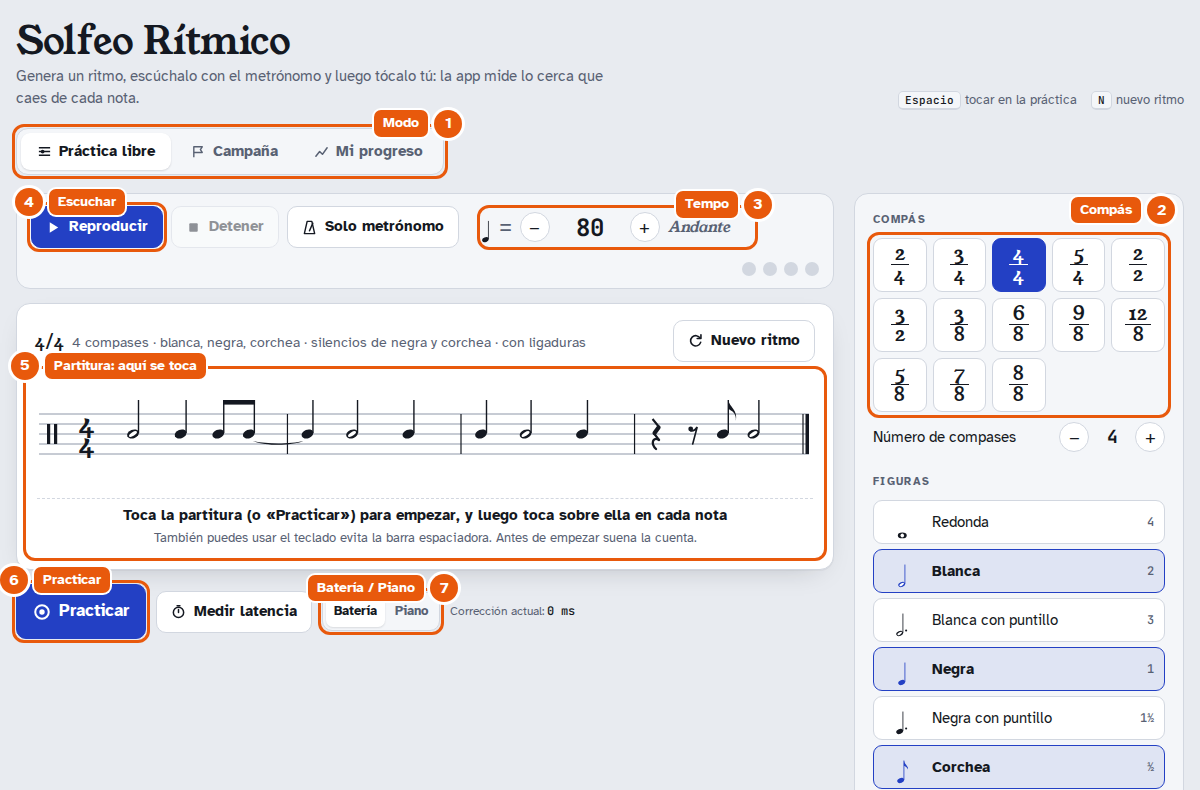
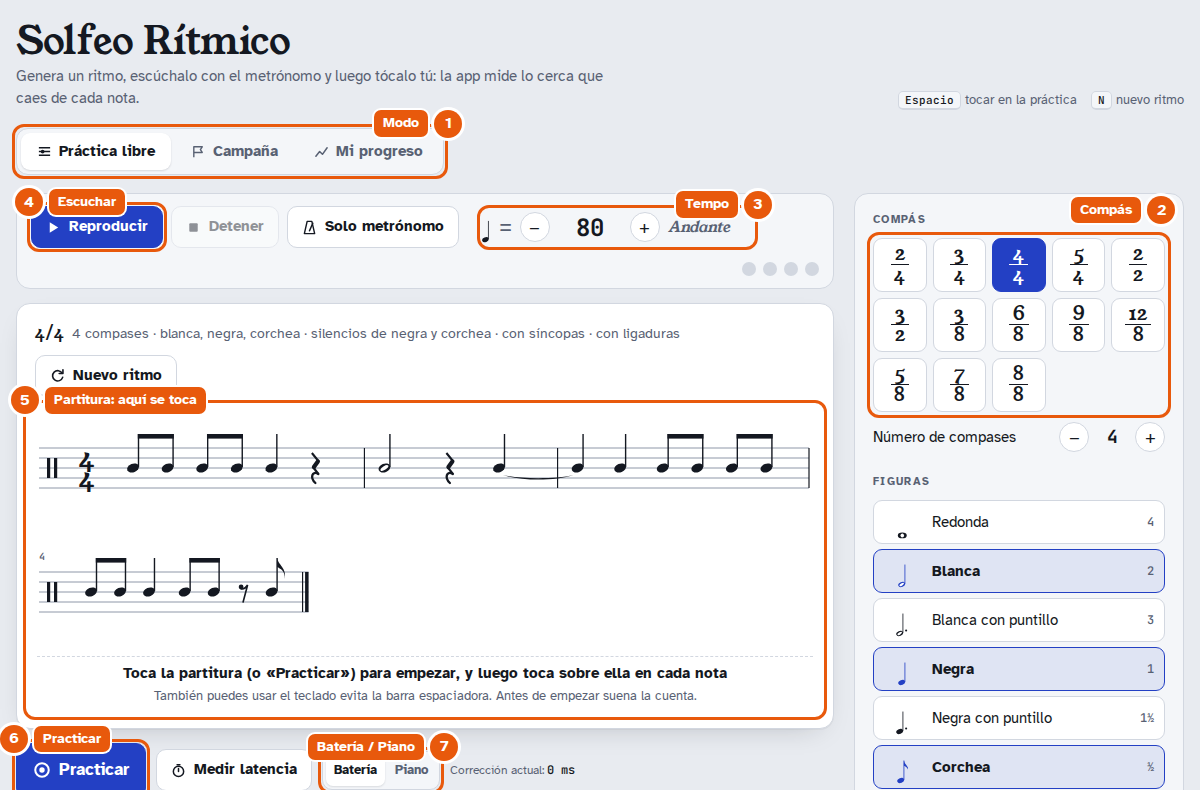
README completo con capturas de las opciones y los modos
- README reescrito con todas las funciones actuales: silencios a elección,
  síncopas y ligaduras por separado, agrupaciones de amalgama, sonido al
  reproducir y al practicar, botón flotante, resultados arriba, campaña de 29
  niveles, teclado.
- Capturas nuevas: opciones del ritmo, ejemplo con síncopa/ligadura/silencio
  de semicorchea, opciones de sonido y práctica, modo piano, medición de
  latencia, nivel superado y móvil en reposo. Las seis anteriores, rehechas
  con la interfaz actual.

Claude-Session: https://claude.ai/code/session_01KR51CwVVXhtFmUshsMceNd

Changed region(s): [[0.0, 0.3949, 0.7092, 0.8203], [0.0, 0.8203, 0.7092, 1.0]]

diff --git a/README.md b/README.md
@@ -2,17 +2,20 @@
 
 App web para estudiar lectura rítmica, en honor a *Étude du Rythme* de Georges Dandelot.
 
-Genera ritmos en partitura según el compás y las figuras que elijas, los reproduce con un metrónomo configurable y mide tu precisión cuando los tocas sobre la partitura (con el dedo o el ratón) o con el teclado.
+Genera ritmos en partitura según el compás y las figuras que elijas, los reproduce con un metrónomo configurable y mide tu precisión cuando los tocas sobre la partitura (con el dedo o el ratón), con el teclado o, en el móvil, con un botón grande en la parte de abajo de la pantalla.
 
 ## Qué incluye
 
-- **Práctica libre:** compases 2/4, 3/4, 4/4, 5/4, 2/2, 3/2, 3/8, 6/8, 9/8, 12/8, 5/8, 7/8 y 8/8 (en los de amalgama eliges la agrupación, por ejemplo 2+2+3, 2+3+2 o 3+2+2); de 1 a 16 compases; redonda, blanca, negra, corchea y semicorchea (con y sin puntillo), tresillos, y síncopas y ligaduras opcionales. Los silencios se eligen uno por uno, igual que las figuras: de redonda, blanca, negra, negra con puntillo, corchea y semicorchea.
-- **Metrónomo:** tempo de 30 a 240 ppm con indicación italiana, acento, subdivisión, cuenta previa y marcado de tempo con toques.
-- **Práctica con evaluación:** en modo batería se mide el ataque de cada nota; en modo piano también cuánto la mantienes. Los golpes de más se pueden penalizar o solo contar, y puedes oír tus propios toques.
-- **Medición de latencia:** calcula la corrección para tu equipo, por ejemplo con auriculares Bluetooth.
-- **Campaña:** 29 niveles en 6 capítulos, del pulso en negras a las síncopas y los compases de amalgama (con distintas agrupaciones), con estrellas y desbloqueo progresivo. Cada nivel fija qué silencios pueden salir.
+- **Práctica libre:** compases 2/4, 3/4, 4/4, 5/4, 2/2, 3/2, 3/8, 6/8, 9/8, 12/8, 5/8, 7/8 y 8/8 (en los de amalgama eliges la agrupación: 3+2 o 2+3; 2+2+3, 2+3+2 o 3+2+2; 3+3+2, 3+2+3 o 2+3+3); de 1 a 16 compases; redonda, blanca, negra, corchea y semicorchea (con y sin puntillo) y tresillos.
+- **Silencios a elección:** se eligen uno por uno, igual que las figuras: de redonda, blanca, negra, negra con puntillo, corchea y semicorchea.
+- **Síncopas y ligaduras:** dos opciones independientes. Las notas ligadas no se vuelven a tocar.
+- **Reproducir y metrónomo:** escucha el ritmo antes de tocarlo. Tempo de 30 a 240 ppm con indicación italiana, acento, subdivisión, cuenta previa y marcado de tempo con toques.
+- **Práctica con evaluación:** en modo batería se mide el ataque de cada nota; en modo piano también cuánto la mantienes. Puedes oír tus propios toques, y los golpes de más se pueden penalizar o solo contar.
 - **Resultados sobre la partitura:** cada nota muestra tu desvío, las notas sin tocar se marcan con una ✕ y los golpes de más con un triángulo en el lugar donde tocaste.
+- **Medición de latencia:** calcula la corrección para tu equipo, por ejemplo con auriculares Bluetooth.
+- **Campaña:** 29 niveles en 6 capítulos, del pulso en negras a las síncopas, las ligaduras y los compases de amalgama, con estrellas y desbloqueo progresivo.
 - **Mi progreso:** historial de prácticas, gráfica de precisión y comparación con las prácticas anteriores.
+- **Pensada también para el móvil:** la página sigue a la partitura mientras suena y, en pantallas táctiles, hay un botón flotante para tocar sin miedo a equivocarte de sitio.
 
 ## Uso
 
@@ -20,61 +23,134 @@ Abre `index.html` en el navegador (junto a `styles.css`, en la misma carpeta). N
 
 ## Cómo funciona
 
-### 1. Prepara el ritmo
+### 1. La pantalla principal
 
 ![Pantalla principal con las partes numeradas](docs/capturas/1-pantalla-principal.png)
 
 1. **Modo:** *Práctica libre* (tú eliges todo), *Campaña* (niveles guiados) o *Mi progreso*.
-2. **Compás:** elige el compás (en 5/8, 7/8 y 8/8 aparece además la agrupación de las corcheas) y, debajo, cuántos compases quieres y qué figuras pueden salir. Debajo de las figuras eliges, uno por uno, qué **silencios** pueden salir (si alguno no puede aparecer con las figuras o el compás elegidos, la app te lo avisa). Más abajo están las síncopas y ligaduras y las opciones del metrónomo.
+2. **Compás y opciones del ritmo:** en el panel de la derecha (debajo, en el móvil). Se explican en el apartado siguiente.
 3. **Tempo:** con − / +, escribiendo el número o marcándolo con toques.
-4. **Escuchar:** *Reproducir* toca el ritmo con el metrónomo para que lo oigas antes de practicarlo. *Nuevo ritmo* (o la tecla <kbd>N</kbd>) genera otro.
-5. **Partitura:** además de leerla, es donde tocas.
-6. **Practicar:** empieza la cuenta previa y la evaluación. También puedes empezar tocando directamente la partitura.
+4. **Reproducir:** hace sonar el ritmo con el metrónomo para que lo oigas antes de practicarlo. *Nuevo ritmo* (o la tecla <kbd>N</kbd>) genera otro.
+5. **Partitura:** además de leerla, es donde tocas. Tocarla en reposo también empieza la práctica.
+6. **Practicar:** empieza la cuenta previa y la evaluación.
 7. **Batería / Piano:** en *Batería* solo cuenta cuándo tocas cada nota; en *Piano* también cuánto la mantienes pulsada.
 
-### 2. Toca sobre la partitura
+### 2. Opciones del ritmo
+
+<img src="docs/capturas/opciones-ritmo.png" alt="Panel de opciones del ritmo con las partes numeradas" width="340">
+
+1. **Compás:** trece compases simples, compuestos y de amalgama.
+2. **Agrupación:** solo en 5/8, 7/8 y 8/8. Cambia cómo se agrupan las corcheas; el metrónomo acentúa el inicio de cada grupo y las barras de las corcheas lo siguen.
+3. **Número de compases:** de 1 a 16.
+4. **Figuras:** pulsa para activar o desactivar cada una. El número de la derecha indica cuántas negras dura.
+5. **Silencios:** igual que las figuras, uno por uno. Si un silencio no cabe en el compás (por ejemplo, el de redonda en 3/4) o necesita figuras más cortas a su lado (el de semicorchea necesita semicorcheas), la app te avisa encima de la partitura.
+6. **Síncopas:** figuras que empiezan entre dos tiempos y siguen sonando sobre el pulso, como corchea-negra-corchea o negra-blanca-negra.
+7. **Ligaduras:** notas ligadas entre tiempos y sobre la barra de compás.
+
+El resumen encima de la partitura recuerda siempre qué está activo. Un ejemplo con síncopas, ligaduras y silencios de semicorchea:
+
+![Partitura de ejemplo con una síncopa, una ligadura y un silencio de semicorchea marcados](docs/capturas/ejemplo-ritmo.png)
+
+1. **Síncopa:** la negra empieza entre dos tiempos; tócala en el «y».
+2. **Ligadura:** la segunda nota no se toca; alarga la anterior.
+3. **Silencio de semicorchea:** un cuarto de tiempo sin tocar.
+
+### 3. Sonido y práctica
+
+<img src="docs/capturas/opciones-sonido.png" alt="Opciones de reproducción, metrónomo y práctica" width="340">
+
+1. **Reproducción:** *Reproducir* siempre hace sonar el ritmo; *Escuchar el ritmo al practicar* lo hace sonar también mientras practicas (viene apagada, para que lo leas tú). También: resaltar la nota actual, repetir en bucle, sonido de las notas (tono sostenido o golpe) y volumen.
+2. **Metrónomo:** tempo, marcar el tempo con toques, sonar durante el ritmo, acento en el primer tiempo, subdivisión, compases de cuenta previa y volumen.
+3. **Práctica:**
+   - *Penalizar golpes de más:* cada golpe donde no hay nota resta puntos; si lo desactivas, solo se cuentan.
+   - *Modo piano:* igual que el selector Batería / Piano.
+   - *Oír mis toques* (activado por defecto) y su volumen: en modo piano suena mientras mantienes.
+   - *Botón flotante para tocar:* en móvil y tableta (ver más abajo).
+   - *Guardar cada práctica automáticamente* en *Mi progreso*.
+   - *Ajuste de latencia:* la corrección manual; *Medir latencia* la calcula por ti.
+
+### 4. Toca sobre la partitura
 
 ![Práctica en curso: la partitura se enmarca en azul y las notas tocadas se colorean](docs/capturas/2-practicando.png)
 
-Al pulsar *Practicar* (o tocar la partitura), la partitura se enmarca en azul y suena la cuenta previa (el número aparece sobre la partitura). Después, **toca sobre la partitura en cada nota**: con el dedo, con el ratón o con la barra espaciadora (en realidad sirve cualquier tecla). En móvil y tableta también puedes usar el botón flotante de abajo.
+Al pulsar *Practicar* (o tocar la partitura), la partitura se enmarca en azul y suena la cuenta previa (el número aparece sobre la partitura). Después, **toca en cada nota**: sobre la partitura con el dedo o el ratón, o con cualquier tecla del teclado.
 
 1. **Pulso:** las luces siguen al metrónomo.
 2. **Nota actual:** el cursor marca la nota que suena; las que ya tocaste se colorean según tu precisión.
 3. **Aciertos en directo:** cuántas notas llevas.
 
-Si el ritmo ocupa varias líneas, la página se desplaza sola para que siempre veas la línea que suena y la siguiente.
+Si el ritmo ocupa varias líneas, la página se desplaza sola para que siempre veas la línea que suena y la siguiente. En los silencios y en las notas ligadas no se toca.
 
-En los silencios y en las notas ligadas no se toca: la ligadura alarga la nota anterior. Fuera de la práctica, la partitura se comporta como una imagen normal (puedes desplazar la página sin que cuente como toque).
-
-### 3. Revisa el resultado
+### 5. Revisa el resultado
 
 ![Resultados con el desvío de cada nota y el recuento](docs/capturas/3-resultados.png)
+
+Los botones para repetir la práctica o pedir un nuevo ritmo quedan arriba, junto a la partitura.
 
 1. **Tu desvío:** el punto bajo cada nota indica si tocaste antes (a la izquierda de la rayita) o tarde (a la derecha). Verde = exacto (±40 ms), azul verdoso = bien (±90 ms), naranja = cerca.
 2. **Nota sin tocar:** una ✕ roja.
 3. **Precisión:** la nota global, con un consejo (si tiendes a adelantarte o atrasarte).
-4. **Recuento:** exactas, bien, cerca, sin tocar y golpes de más. En modo piano aparece además una barra bajo cada nota que compara cuánto la mantuviste con lo que debía durar.
+4. **Recuento:** exactas, bien, cerca, sin tocar y golpes de más.
 5. **Golpe de más:** un triángulo gris marca dónde tocaste sin que hubiera nota (en un silencio, en la parte sostenida de una figura larga o en una nota ligada).
 
-Si siempre te marca «tarde» aunque vayas a tiempo (pasa con auriculares Bluetooth), usa **Medir latencia**: tocas con 16 clics y la app calcula la corrección.
+#### En modo piano
 
-### 4. Campaña
+![Resultados en modo piano con barras de duración bajo cada nota](docs/capturas/modo-piano.png)
+
+Además del ataque se mide cuándo sueltas cada nota.
+
+1. **Barra de duración:** compara cuánto la mantuviste (color) con lo que debía durar (gris); la rayita marca dónde tenías que soltar.
+2. **Soltaste antes:** la barra se queda corta y en naranja.
+3. **Duraciones:** justas, aceptables, antes y tarde, con un consejo si sueles soltar pronto o tarde.
+
+### 6. Medir la latencia
+
+![Resultado de la medición de latencia](docs/capturas/latencia.png)
+
+Si siempre te marca «tarde» aunque vayas a tiempo (pasa a menudo con auriculares Bluetooth), pulsa **Medir latencia**: suenan 4 clics de cuenta y tocas con los 16 siguientes.
+
+1. **Corrección sugerida:** cuántos milisegundos llegan tarde tus toques de media.
+2. **Cada toque:** dónde cayó cada uno respecto al clic.
+3. **Aplicar corrección:** la guarda como *Ajuste de latencia*.
+
+### 7. Campaña
 
 ![Campaña: ficha del nivel y mapa de niveles con estrellas](docs/capturas/4-campana.png)
 
 1. **Nivel actual:** qué se practica, compás, tempo fijo y la precisión necesaria para 1, 2 y 3 estrellas.
-2. **Mapa de niveles:** 29 niveles en 6 capítulos. Cada nivel se desbloquea al conseguir al menos una estrella en el anterior. Los silencios se introducen poco a poco: primero de negra y blanca, luego de corchea y, en «Silencio de semicorchea», el de semicorchea. En «Desafíos» hay niveles de 7/8 y 5/8 con distintas agrupaciones (2+2+3 y 3+2+2; 3+2 y 2+3).
+2. **Mapa de niveles:** 29 niveles en 6 capítulos (El pulso, Corcheas, Semicorcheas y tresillos, Compases compuestos, Síncopas y ligaduras, Desafíos). Cada nivel se desbloquea al conseguir al menos una estrella en el anterior. Los silencios se introducen poco a poco y en *Desafíos* hay niveles de 5/8, 7/8 y 8/8 con distintas agrupaciones y de 3/2.
 
-### 5. Mi progreso
+Al cambiar de nivel, la partitura se centra en la pantalla.
+
+![Resultado de un nivel superado con el botón Siguiente nivel](docs/capturas/campana-superado.png)
+
+1. **Siguiente nivel:** aparece, como botón principal, cuando superas el nivel.
+2. **Estrellas** conseguidas y lo que falta para la siguiente.
+
+### 8. Mi progreso
 
 ![Mi progreso: resumen, gráfica de precisión e historial](docs/capturas/5-progreso.png)
 
-Resumen de tus prácticas, gráfica de precisión con la media de las últimas cinco e historial detallado.
+Resumen de tus prácticas, gráfica de precisión con la media de las últimas cinco e historial detallado (incluye la agrupación en los compases de amalgama).
 
 ### En el móvil
 
-<img src="docs/capturas/6-movil.png" alt="La app en un móvil durante la práctica" width="300">
+<p>
+  <img src="docs/capturas/movil-reposo.png" alt="Móvil en reposo con el botón flotante Practicar" width="260">
+  &nbsp;
+  <img src="docs/capturas/6-movil.png" alt="Móvil durante la práctica con el botón flotante Toca aquí" width="260">
+</p>
 
-En pantallas pequeñas el panel de opciones pasa debajo. En móvil y tableta aparece un **botón grande abajo de la pantalla** mientras la partitura está a la vista. En reposo dice *Practicar* y empieza la práctica; durante la práctica dice *Toca aquí* y es donde tocas: no se mueve cuando la partitura cambia de línea, así no tocas fuera por error (también muestra la cuenta previa y, en modo piano, se mantiene pulsado). Si prefieres tocar sobre la partitura, desactívalo en *Práctica → Botón flotante para tocar*.
+En pantallas pequeñas el panel de opciones pasa debajo de la partitura. En móvil y tableta aparece un **botón grande abajo de la pantalla** mientras la partitura está a la vista:
+
+- **En reposo** dice *Practicar* y empieza la práctica (izquierda).
+- **Durante la práctica** dice *Toca aquí* y es donde tocas (derecha): no se mueve cuando la partitura cambia de línea, así no tocas fuera por error. Muestra la cuenta previa y, en modo piano, se mantiene pulsado.
+
+Si prefieres tocar sobre la partitura, desactívalo en *Práctica → Botón flotante para tocar*.
+
+### Teclado
+
+- <kbd>Espacio</kbd> o cualquier tecla: tocar durante la práctica o la medición de latencia.
+- <kbd>N</kbd>: nuevo ritmo.
 
 Para el detalle técnico, consulta [`CLAUDE.md`](CLAUDE.md).

diff --git a/CLAUDE.md b/CLAUDE.md
@@ -35,7 +35,7 @@ Nació como un Artifact publicado en claude.ai. Allí el progreso se guardaba en
 
 **Resultados:** los botones (`#resActions`: «Siguiente nivel» `#rcNext`, «Repetir práctica», «Nuevo ritmo», «Guardar resultado») van arriba, antes del porcentaje, para que queden junto a la partitura; «Siguiente nivel» solo aparece al superar un nivel de la campaña y entonces «Repetir» deja de ser el botón principal. Al mostrar los resultados, la página se desplaza lo justo para que esos botones se vean (descontando `fabReserve()`).
 
-**Capturas del README:** están en `docs/capturas/`, hechas con Playwright (Chromium) a 1200 px (y 390 px ×2 la de móvil), con datos de ejemplo y marcadores numerados añadidos al DOM solo para la captura. Si cambia la interfaz, conviene rehacerlas.
+**Capturas del README:** están en `docs/capturas/` (las seis numeradas de la pantalla principal y los modos, y las descriptivas de opciones, ejemplo de ritmo, modo piano, latencia, nivel superado y móvil en reposo), hechas con Playwright (Chromium) a 1200 px (y 390 px ×2 las de móvil), con datos de ejemplo y marcadores numerados añadidos al DOM solo para la captura. Si cambia la interfaz, conviene rehacerlas.
 
 ## Convenciones y decisiones
 
